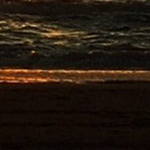
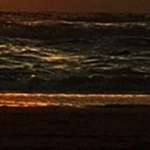
WIP

diff --git a/generate.go b/generate.go
@@ -33,7 +33,7 @@ func main() {
 
 			// Crop the image
 			x := ((i+1) * 76.0) + (i * 150.0)
-			y := 192.0 + (j * 150.0) + (j * 140.0)
+			y := 192.0 + (j * 150.0) + (j * 134.0)
 			cropArg := fmt.Sprintf("crop=150:150:%d:%d", x, y)
 			cmd = exec.Command("ffmpeg", "-i", "wallpaper_scaled.png", "-vf", cropArg, fileName)
 			var stderr bytes.Buffer
